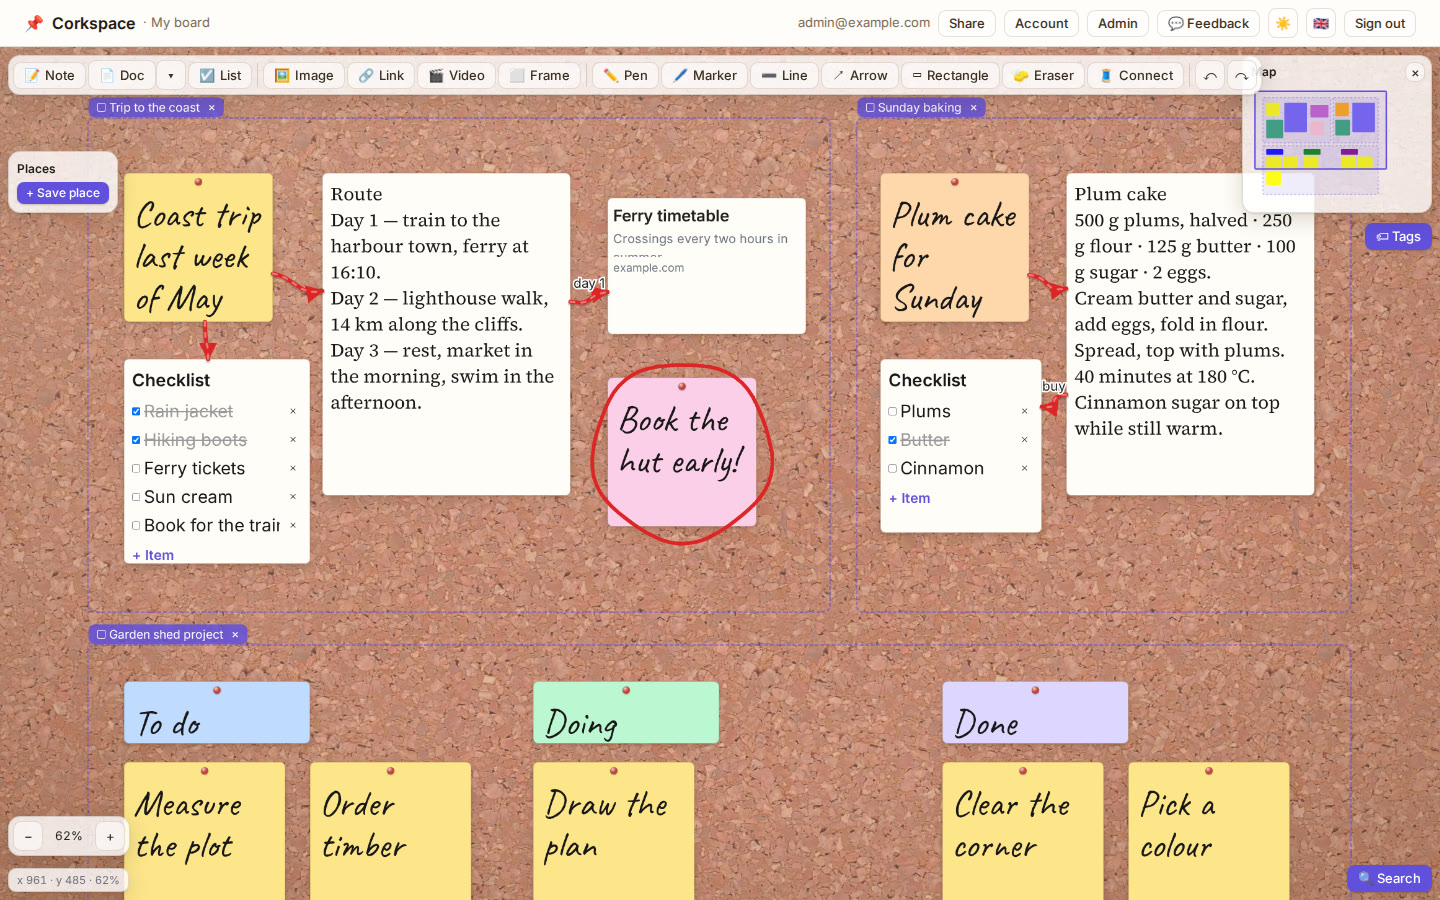
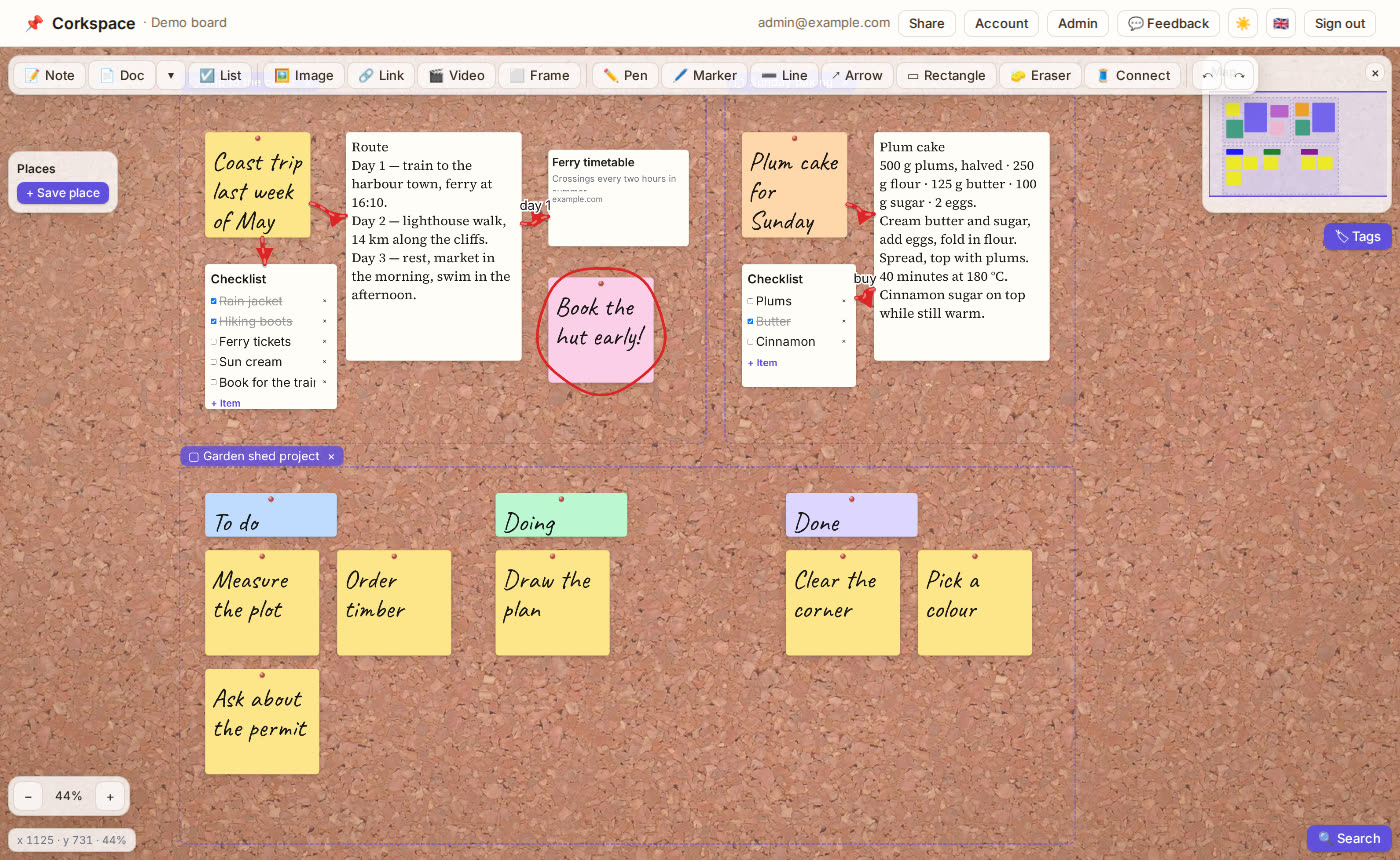
docs: launch-ready README, one-command start with GHCR images, release workflow, issue forms (#57)
* fix(api): reject an imageAssetId that is unknown or belongs to another board

Creating an entry stored `imageAssetId` unchecked. An unknown id hit the
foreign key and surfaced as a 500; an asset uploaded to another board was
accepted, so an entry could point at an image from a board the author
cannot see. Assets are board-scoped, so `createEntry` now requires the
asset to exist on the entry's board and the route answers 400 otherwise.

Integration tests cover the same-board, unknown-id and foreign-board cases
(the last also checks that no entry was created).

Closes #5

Claude-Session: https://claude.ai/code/session_016d7sU2tLyCGW3AdrgFqbMM

* test(web): start every e2e test on a fully loaded board

`resetCamera` (called by every login helper) reloaded the page and waited a
fixed 300 ms. Under load the board's entries arrived later, so a test that
diffed "entries before / after" captured an empty list, and entries it
created got z-index 1 (`nextZIndex` saw no entries) and ended up under
entries left by earlier tests, which then intercepted its clicks.

This is why `entries.spec.ts` "create a checklist ... persists across
reload" failed 3 of 6 runs on main with `--retries=0 --repeat-each=6`
(twice at `toHaveCount`, once at a click intercepted by an older
checklist). None of those failures was the lost update of #6. The helper
now also waits for the board's GET /entries response after the reload.

Claude-Session: https://claude.ai/code/session_016d7sU2tLyCGW3AdrgFqbMM
[…]

diff --git a/README.md b/README.md
@@ -1,25 +1,85 @@
 # Corkspace
 
-**An infinite, explorable pinboard you host yourself — sticky notes, rich documents,
-checklists, images and link cards on a canvas where everything has a place, tied together
-with red threads.**
+**Your own infinite pinboard: notes, documents, checklists, images and links on one canvas, tied
+together with red threads — self-hosted, and everything stays findable.**
 
-![A demo board: a trip, a recipe and a small project, connected with red threads](docs/media/board.jpg)
+![Zooming into a demo board, adding a note, tying it to another note with a red thread, then searching for “plum” and flying to the recipe](docs/media/hero.gif)
 
-Corkspace is a Miro-style canvas built from scratch — no canvas SDK — so that it stays smooth
-with thousands of items and keeps every item at a real world position you can always find
-again. It is a small multi-user product: every account owns a board, owners invite editors
-and viewers or share a read-only link, and an admin keeps the instance in order.
+- **An infinite canvas that stays smooth** — a custom engine (no canvas SDK) with culling and level
+  of detail; zoom from 2 % to 800 % across thousands of items.
+- **More than sticky notes** — rich documents, checklists, images, link cards and YouTube/Vimeo
+  embeds sit on the board next to notes in six colours.
+- **Connect the dots** — red threads with labels, freehand drawing, frames that move their contents,
+  teleports to saved places, tags.
+- **Find it again** — full-text search that flies you to the result, 20 versions per entry, trash,
+  a connection graph, PNG/PDF export.
+- **Runs on your server** — Docker Compose and Postgres, accounts you create, editor/viewer sharing
+  and read-only links, MIT licence.
+
+## Quick start
+
+You need Docker with the Compose plugin.
+
+```bash
+git clone https://github.com/Juice-de-Orange/corkspace.git && cd corkspace
+./setup              # writes infra/.env with generated secrets, prints your admin sign-in
+docker compose up -d
+```
+
+Open <http://localhost:8080> and sign in with the address and password `./setup` printed.
+On a clean Docker host (8 CPU cores, no cached images) the sign-in page was up **about 2½ minutes**
+after `git clone` (measured 2026-10-12: 140 s). No release images are published yet, so that
+run built them from source; until they are, `docker compose up -d` prints "denied" warnings for
+the `ghcr.io/juice-de-orange/corkspace-*` images and builds them instead.
+
+To see a filled board right away, add the synthetic demo board from the GIF to your (empty) board:
+`docker compose --profile demo run --rm seed`. There is no public sign-up — you create further
+accounts under **Admin → Users**. For a server behind a TLS reverse proxy (`./setup
+https://corkspace.example.com` writes the right addresses), backups and upgrades, see
+[docs/DEPLOYMENT.md](docs/DEPLOYMENT.md).
+
+[![CI](https://github.com/Juice-de-Orange/corkspace/actions/workflows/ci.yml/badge.svg)](https://github.com/Juice-de-Orange/corkspace/actions/workflows/ci.yml)
+[![Licence: MIT](https://img.shields.io/badge/licence-MIT-blue.svg)](LICENSE)
+
+Built with AI assistance.
+
+## How it compares
+
+Checked against each project's own website, docs and licence on 2026-10-12. Corkspace is a small,
+young project; the others are mature products with large communities.
+
+| | Corkspace | [Miro](https://miro.com) | [tldraw](https://tldraw.dev) | [Excalidraw](https://excalidraw.com) | [AFFiNE](https://affine.pro) |
+|---|---|---|---|---|---|
+| What it is | Self-hosted pinboard app | Hosted whiteboard (SaaS) | Whiteboard SDK, plus the tldraw.com app | Hand-drawn style whiteboard | Docs, whiteboard and databases in one workspace |
+| Licence | MIT | Proprietary | tldraw license: production use needs a licence key (trial, hobby with watermark, or commercial) | MIT | Mixed: MIT / MPL-2.0, server parts under an Enterprise licence |
+| Self-hosting | Docker Compose (web, api, worker, Postgres) | No | Inside your own app; you host the sync server | Official Docker image of the editor; "self-hosting your own instance doesn't support sharing or collaboration features" | Official Docker Compose (with Postgres and Redis); free self-hosted tier up to 10 members per workspace |
+| Real-time co-editing | **No** — last write wins, others' changes appear on reload | Yes | Yes (tldraw sync) | Yes on excalidraw.com, end-to-end encrypted | Yes |
+| Accounts and sharing when self-hosted | Accounts created by an admin; editors and viewers per board; read-only links; per-entry public/private | — | You build them | None in the self-hosted editor | Workspaces with members |
+| Offline | No | No official offline mode found | Saves to the browser (IndexedDB) | Local-first, works offline | Local-first, desktop app |
+| Apps | Web, with a touch UI for phones | Web, desktop, iOS, Android | SDK for your own app | Web (PWA) | Web, desktop |
+
+**Where they are better:** Miro has real-time collaboration, thousands of templates, hundreds of
+integrations and native apps. tldraw is a polished canvas engine and multiplayer SDK to build your
+own product on. Excalidraw is the quickest way to sketch together, end-to-end encrypted, with a
+huge community. AFFiNE combines documents, databases and a whiteboard, works local-first and has
+real-time sync. All four are far more mature than Corkspace.
+
+**Where Corkspace fits:** you want one private board per person on your own server, where
+documents, checklists, images and links live on the canvas next to the notes, connected by threads,
+searchable and versioned, under MIT — and you do not need live co-editing.
 
 ## Features
+
+![The demo board: a trip, a recipe and a small project, connected with red threads](docs/media/board.jpg)
 
 - **A truly infinite board.** Pan, pinch and zoom from 2 % to 800 %; the camera never
   re-renders React, a spatial index culls everything off-screen, and items switch to lighter
   representations as they get small on screen. Minimap, position readout, and the board
   remembers where you were.
 - **Entries:** sticky notes in six colours, rich documents (TipTap: headings, lists, quotes,
-  code blocks, links, `==highlight==`, lined or grid paper), checklists, images (incl. animated GIFs) and link cards
-  with previews; YouTube and Vimeo embeds in sandboxed frames.
+  code blocks, links, `==highlight==`, lined or grid paper), checklists, images (incl. animated
+  GIFs) and link cards (with a fetched title, description and image when an administrator adds
+  them, see [Known limitations](#known-limitations)); YouTube and Vimeo embeds in sandboxed frames.
 - **Red threads** between entries with labels and arrowheads, **freehand drawing** (pen,
   marker, lines, arrows, rectangles, eraser) on entries and the board, **frames** that move
   their contents, **teleports** to bookmark places, **tags** with styling rules.
@@ -41,32 +101,6 @@ and viewers or share a read-only link, and an admin keeps the instance in order.
 <td><img src="docs/media/mobile.jpg" alt="The board on a phone with the bottom toolbar" width="260" /></td>
 </tr>
 </table>
-
-## Quick start
-
-You need Docker with Compose.
-
-```bash
-git clone https://github.com/Juice-de-Orange/corkspace.git && cd corkspace
-cp .env.example infra/.env
-# edit infra/.env: POSTGRES_PASSWORD, BETTER_AUTH_SECRET (openssl rand -base64 48),
-# ADMIN_EMAIL, ADMIN_PASSWORD, and the three URLs (http://localhost:8080 for a local try)
-docker compose -f infra/docker-compose.yml --env-file infra/.env up -d --build
-```
-
-Open <http://localhost:8080> and sign in with `ADMIN_EMAIL` / `ADMIN_PASSWORD`. There is no
-public sign-up: the admin creates accounts under **Admin → Users**.
-
-To see a filled board right away, load the synthetic demo content into your board. This one step
-runs on the host and needs Node 22 and pnpm in addition to Docker:
-
-```bash
-pnpm install
-SEED_URL=http://localhost:8080 SEED_EMAIL=… SEED_PASSWORD=… pnpm db:seed-demo
-```
-
-For a server behind a reverse proxy with TLS, backups and upgrades, see
-[docs/DEPLOYMENT.md](docs/DEPLOYMENT.md).
 
 ## How it is built
 
@@ -138,14 +172,18 @@ upgrade procedure in [docs/DEPLOYMENT.md](docs/DEPLOYMENT.md) were not part of t
   - *Board invitations:* an owner can only invite people who already have an account; they are not
     notified, the board simply appears in their board switcher.
   - *Feedback:* new feedback is not announced; administrators look under **Admin → Feedback**.
+- **No real-time collaboration.** Two people editing the same board work last-write-wins per
+  entry; changes by others appear on reload.
+- **Link previews only for administrators.** Fetching a page's title, description and image for a
+  link card is limited to the instance administrator; for everyone else the card shows the plain
+  link.
 - Touch e2e tests are not automated yet (#11); the release checks ran in Chromium only, see
   [Status](#status).
 
-## Built with Claude Code
+## AI assistance
 
-Corkspace was built by [Claude Code](https://claude.com/claude-code) working through a phased
-plan with hard quality gates (tests, coverage, audits) — the working method is described in
-[CLAUDE.md](CLAUDE.md). Product decisions, reviews and acceptance were human.
+As said at the top: built with AI assistance. The working method — phased plans with hard quality gates (tests, coverage, audits) — is
+described in [CLAUDE.md](CLAUDE.md).
 
 ## License
 

diff --git a/docs/DEPLOYMENT.md b/docs/DEPLOYMENT.md
@@ -34,6 +34,11 @@ chmod 600 infra/.env
 
 Edit `infra/.env`. The backup scripts read `infra/.env` by default, so keep it there.
 
+Shortcut: `./setup https://corkspace.example.com` writes `infra/.env` from `.env.example` with
+generated `POSTGRES_PASSWORD`, `BETTER_AUTH_SECRET` and `ADMIN_PASSWORD`, sets the three URLs to
+that address and prints the admin sign-in (`ADMIN_EMAIL=you@example.com ./setup …` to choose the
+account). It never overwrites an existing `infra/.env`.
+
 | Variable | Required | Notes |
 |---|---|---|
 | `POSTGRES_PASSWORD` | **yes** | Compose refuses to start without it; there is no fallback. Use a long random value. |
@@ -44,7 +49,8 @@ Edit `infra/.env`. The backup scripts read `infra/.env` by default, so keep it t
 | `ADMIN_EMAIL`, `ADMIN_PASSWORD` | **yes** | The first administrator (password at least 8 characters). See §4. |
 | `ADMIN_NAME` | no | Display name of the first administrator, default `Admin`. |
 | `BRAND_NAME` | no | Name of your instance in the header, on the sign-in page, in the browser tab and in export file names, default `Corkspace`. Read by the api at start; restart `api` after changing it. |
-| `COMPOSE_PROJECT_NAME` | no | Compose project name, default `corkspace` (from the compose file). It prefixes container, volume and network names; the backup scripts follow it. |
+| `COMPOSE_PROJECT_NAME` | no | Compose project name, default `corkspace` (from the compose file). It prefixes container, volume and network names; the backup scripts follow it. It applies to the `-f infra/docker-compose.yml` commands below; `docker compose` from the repository root (`compose.yaml`) always uses `corkspace`. |
+| `CORKSPACE_VERSION` | no | Tag of the GHCR images to pull, default `latest` (e.g. `0.2.0` to pin a release). |
 | `WEB_PORT` | no | Host port of the `web` service, default 8080. |
 | `TRUSTED_PROXIES` | no | Addresses/CIDRs (space or comma separated) allowed to tell the `web` nginx the client address; default loopback and the private ranges (`10.0.0.0/8`, `172.16.0.0/12`, `192.168.0.0/16`, `fc00::/7`). `none` trusts nobody. See §3. |
 | `REAL_IP_HEADER` | no | Header those proxies put the client address in, default `X-Forwarded-For`; `CF-Connecting-IP` behind a Cloudflare Tunnel. |
@@ -64,6 +70,12 @@ docker compose -f infra/docker-compose.yml --env-file infra/.env up -d --build
 docker compose -f infra/docker-compose.yml --env-file infra/.env ps -a
 curl -fsS http://localhost:8080/api/health    # {"status":"ok","db":"up"}
 ```
+
+`docker compose up -d` from the repository root is the same stack (`compose.yaml` includes
+`infra/docker-compose.yml` with `infra/.env`). Without `--build`, Compose pulls the release images
+`ghcr.io/juice-de-orange/corkspace-{api,worker,web}` (published for amd64 and arm64 by
+`.github/workflows/release.yml` on every version tag) and builds from the checkout only if a pull
+fails — as it does until the first release is published; `--build` always builds from source.
 
 `migrate` should show `Exited (0)`; `db`, `api` and `web` should be `healthy`. Until `api` is healthy, `/api/`
 requests return 502 for a few seconds.
@@ -224,7 +236,8 @@ you restart them yourself afterwards. Rehearse a restore on a test stack before 
 ```bash
 bash scripts/backup.sh
 git pull
-docker compose -f infra/docker-compose.yml --env-file infra/.env build
+docker compose -f infra/docker-compose.yml --env-file infra/.env pull   # released images, or:
+docker compose -f infra/docker-compose.yml --env-file infra/.env build  # from source
 docker compose -f infra/docker-compose.yml --env-file infra/.env up -d
 docker compose -f infra/docker-compose.yml --env-file infra/.env ps -a
 docker compose -f infra/docker-compose.yml --env-file infra/.env logs migrate

diff --git a/CHANGELOG.md b/CHANGELOG.md
@@ -7,6 +7,13 @@ All notable changes to this project are documented here. The format follows
 
 ### Added
 
+- One-command start: `./setup` writes `infra/.env` with generated secrets and prints the admin
+  sign-in; `docker compose up -d` from the repository root (new `compose.yaml`) pulls the GHCR images
+  and builds from source when they are not available; `docker compose --profile demo run --rm seed`
+  loads the demo board without Node on the host. A release workflow publishes
+  `ghcr.io/juice-de-orange/corkspace-{api,worker,web}` for amd64 and arm64 on `v*` tags.
+- README: new top (hero GIF, what you get, quick start), an honest comparison with Miro, tldraw,
+  Excalidraw and AFFiNE, the AI-assistance note; issue form for questions.
 - First public release: infinite canvas with culling and level of detail, five entry types,
   red threads, freehand drawing, frames, teleports, tags, per-user boards with editor/viewer
   invitations and share links, admin area, dashboard with search, graph, trash and version
